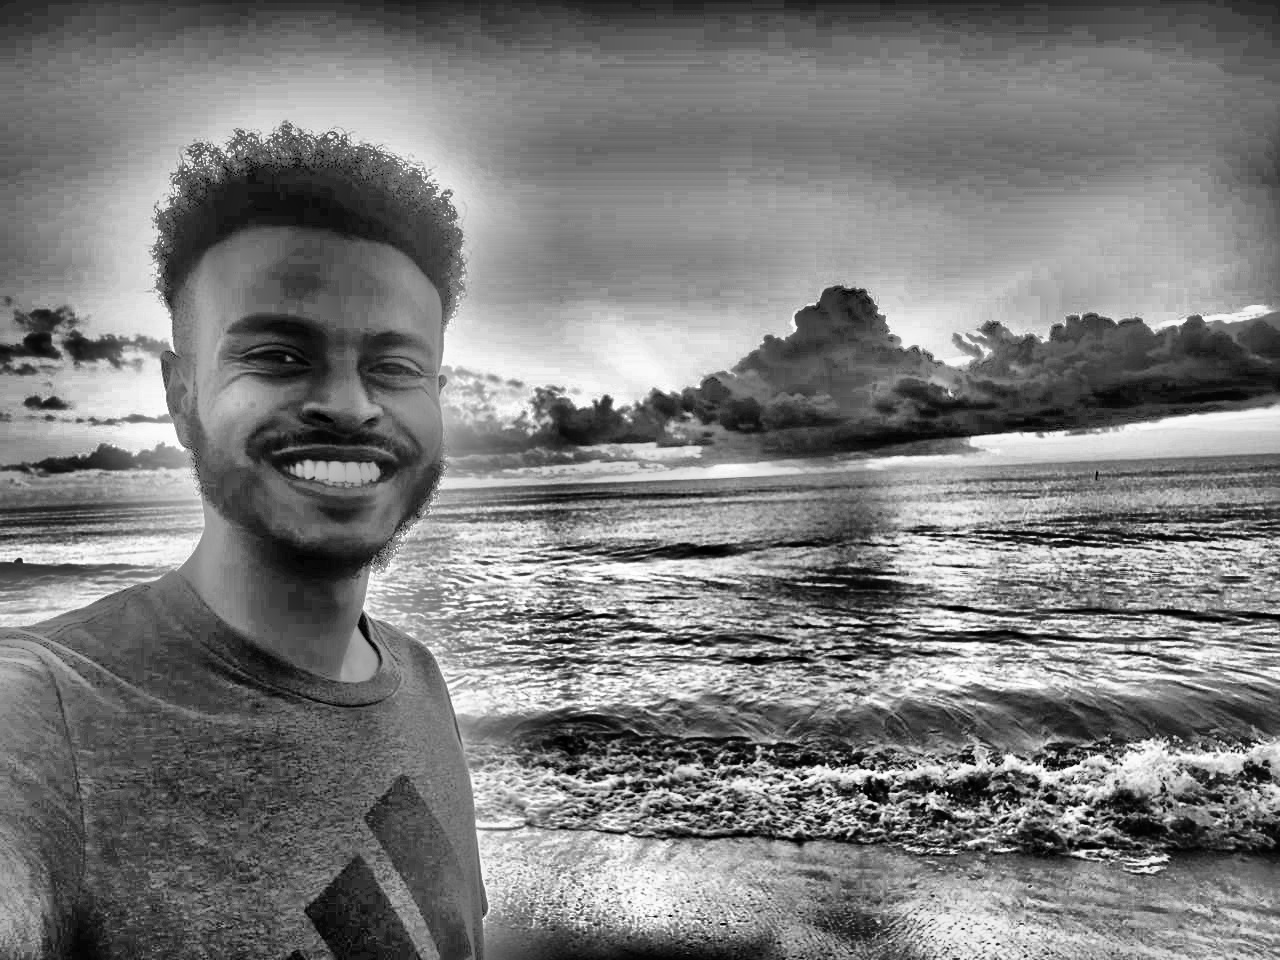
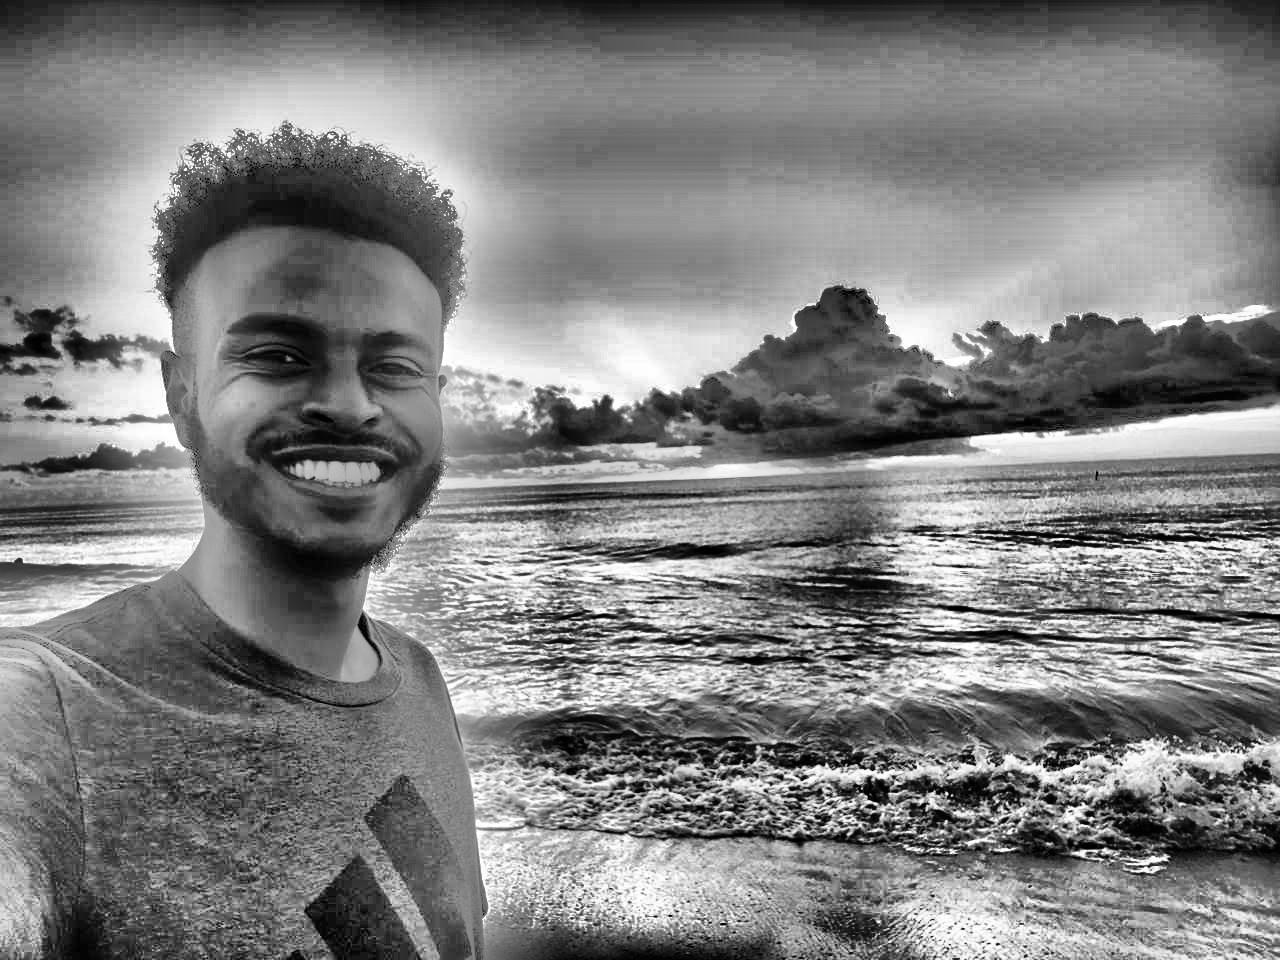
Fix a bug by adding an if else statement at inside _apply_operation(self, operation_dict) method inside pipleline_executor.py

Changed region(s): [[0.0, 0.6562, 0.3125, 1.0], [0.3125, 0.9375, 0.3438, 1.0], [0.1562, 0.0938, 0.1875, 0.125]]

diff --git a/src/image_enhancer/pipeline_executor.py b/src/image_enhancer/pipeline_executor.py
@@ -1,7 +1,7 @@
 import cv2 as cv
 import json 
-from operation_registry import OPERATION_REGISTRY
-from visualization_registry import VISUALIZATION_REGISTRY
+from image_enhancer.operation_registry import OPERATION_REGISTRY
+from image_enhancer.visualization_registry import VISUALIZATION_REGISTRY
 
 class PipelineExecutor:
     def __init__(self, config_path):
@@ -85,8 +85,12 @@ class PipelineExecutor:
         op_name = operation_dict['name']
         func = OPERATION_REGISTRY[op_name]
         copy_dict = operation_dict.copy()
-        copy_dict.pop('name')
-        self.processed_image = func(self.processed_image, **copy_dict)
+        
+        if (len(copy_dict) > 1):
+            copy_dict.pop('name')
+            self.processed_image = func(self.original_image, **copy_dict)
+        else:
+            self.processed_image = func(self.original_image)
     
     def _save_output(self):
         '''
@@ -110,7 +114,7 @@ class PipelineExecutor:
             if value:
                 func = VISUALIZATION_REGISTRY[viz_name]
                 if viz_name == 'plot_before_after' or viz_name == 'hist_before_after':
-                    func(self.processed_image, self.original_image)
+                    func(self.original_image, self.processed_image)
                 else:
                     func(self.processed_image)
     

diff --git a/src/image_enhancer/visualization_registry.py b/src/image_enhancer/visualization_registry.py
@@ -1,4 +1,4 @@
-from basic_image_ops import (compute_histogram, compute_color_histogram, plot_histogram, 
+from image_enhancer.basic_image_ops import (compute_histogram, compute_color_histogram, plot_histogram, 
                              plot_color_histogram, plot_before_after, hist_before_after, clahe_eqlz_before_after)
 
 VISUALIZATION_REGISTRY = {

diff --git a/src/image_enhancer/operation_registry.py b/src/image_enhancer/operation_registry.py
@@ -1,4 +1,4 @@
-from basic_image_ops import resize_image, to_grayscale, normalize_image, adjust_gamma, contrast_stretch
+from image_enhancer.basic_image_ops import resize_image, to_grayscale, normalize_image, adjust_gamma, contrast_stretch
 
 OPERATION_REGISTRY = {
     "resize_image": resize_image,

diff --git a/src/image_enhancer/enhancement_pipeline.py b/src/image_enhancer/enhancement_pipeline.py
@@ -55,6 +55,8 @@ def enhance_image (img, config):
         
         img_copy = histogram_equalization_clahe_grayscale(img_copy)
         
+        clahe_eqlz_before_after(img_copy)
+        
         print('\nAfter Clahe')
         image_info(img_copy)
         

diff --git a/src/image_enhancer/cli.py b/src/image_enhancer/cli.py
@@ -1,5 +1,5 @@
 import argparse 
-from pipeline_executor import PipelineExecutor
+from image_enhancer.pipeline_executor import PipelineExecutor
 
 def main():
     parser = argparse.ArgumentParser(
